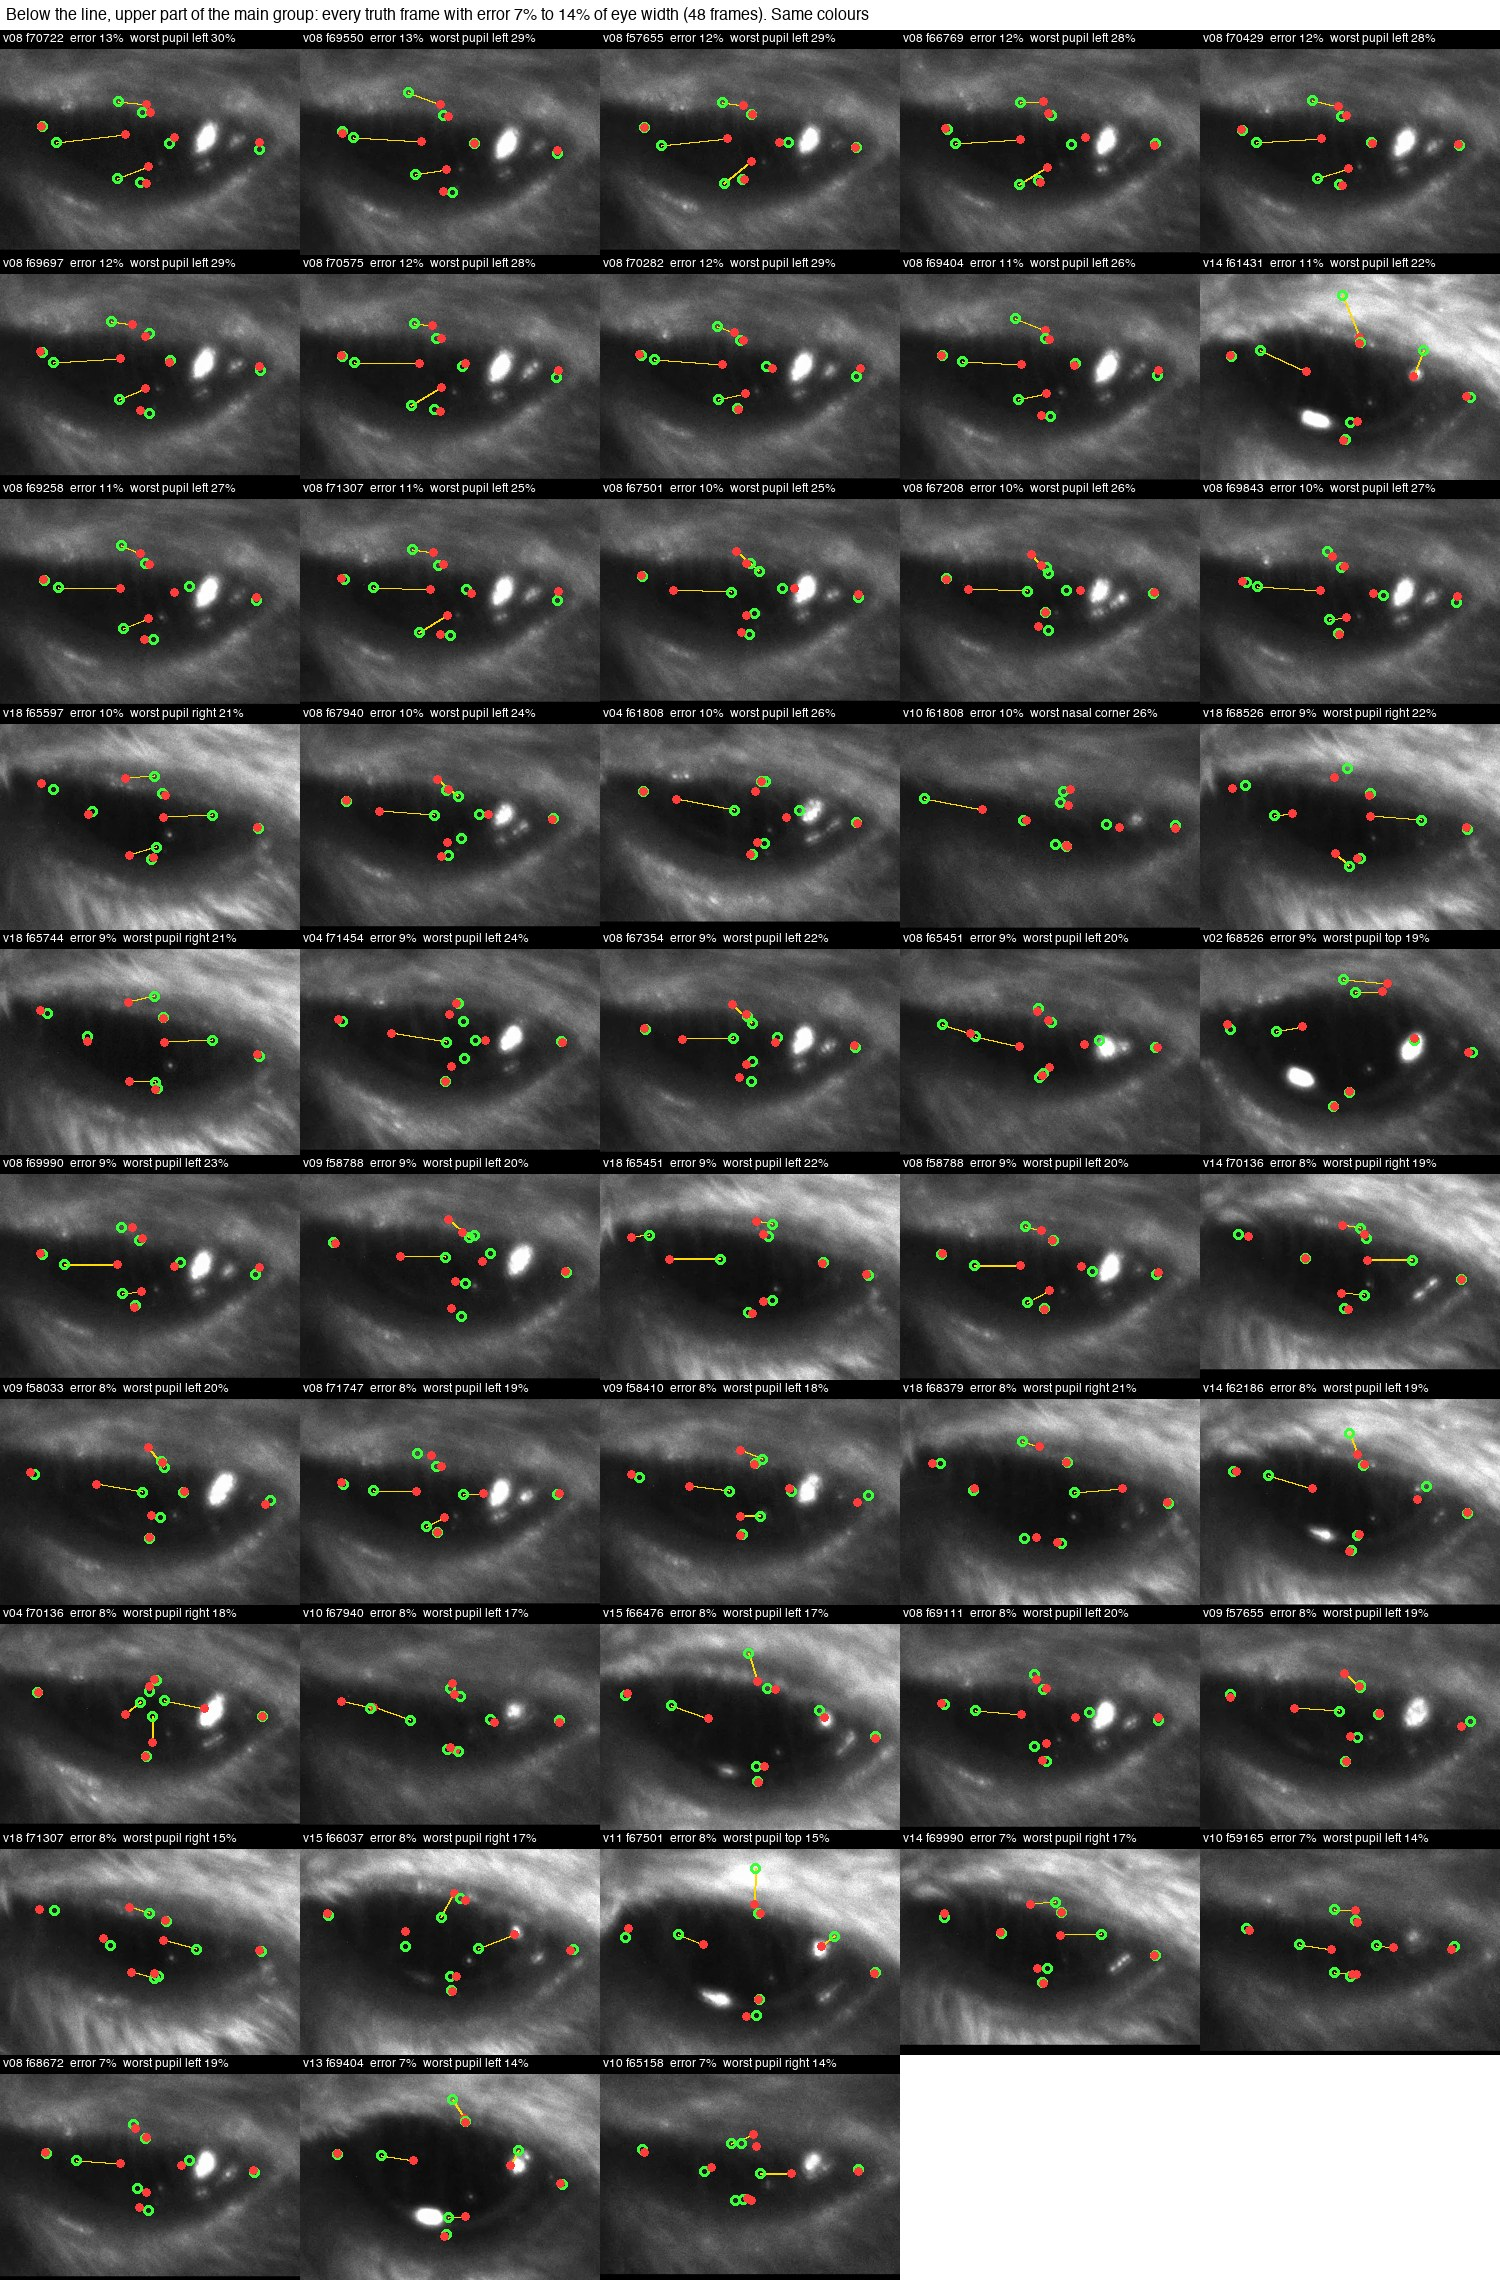
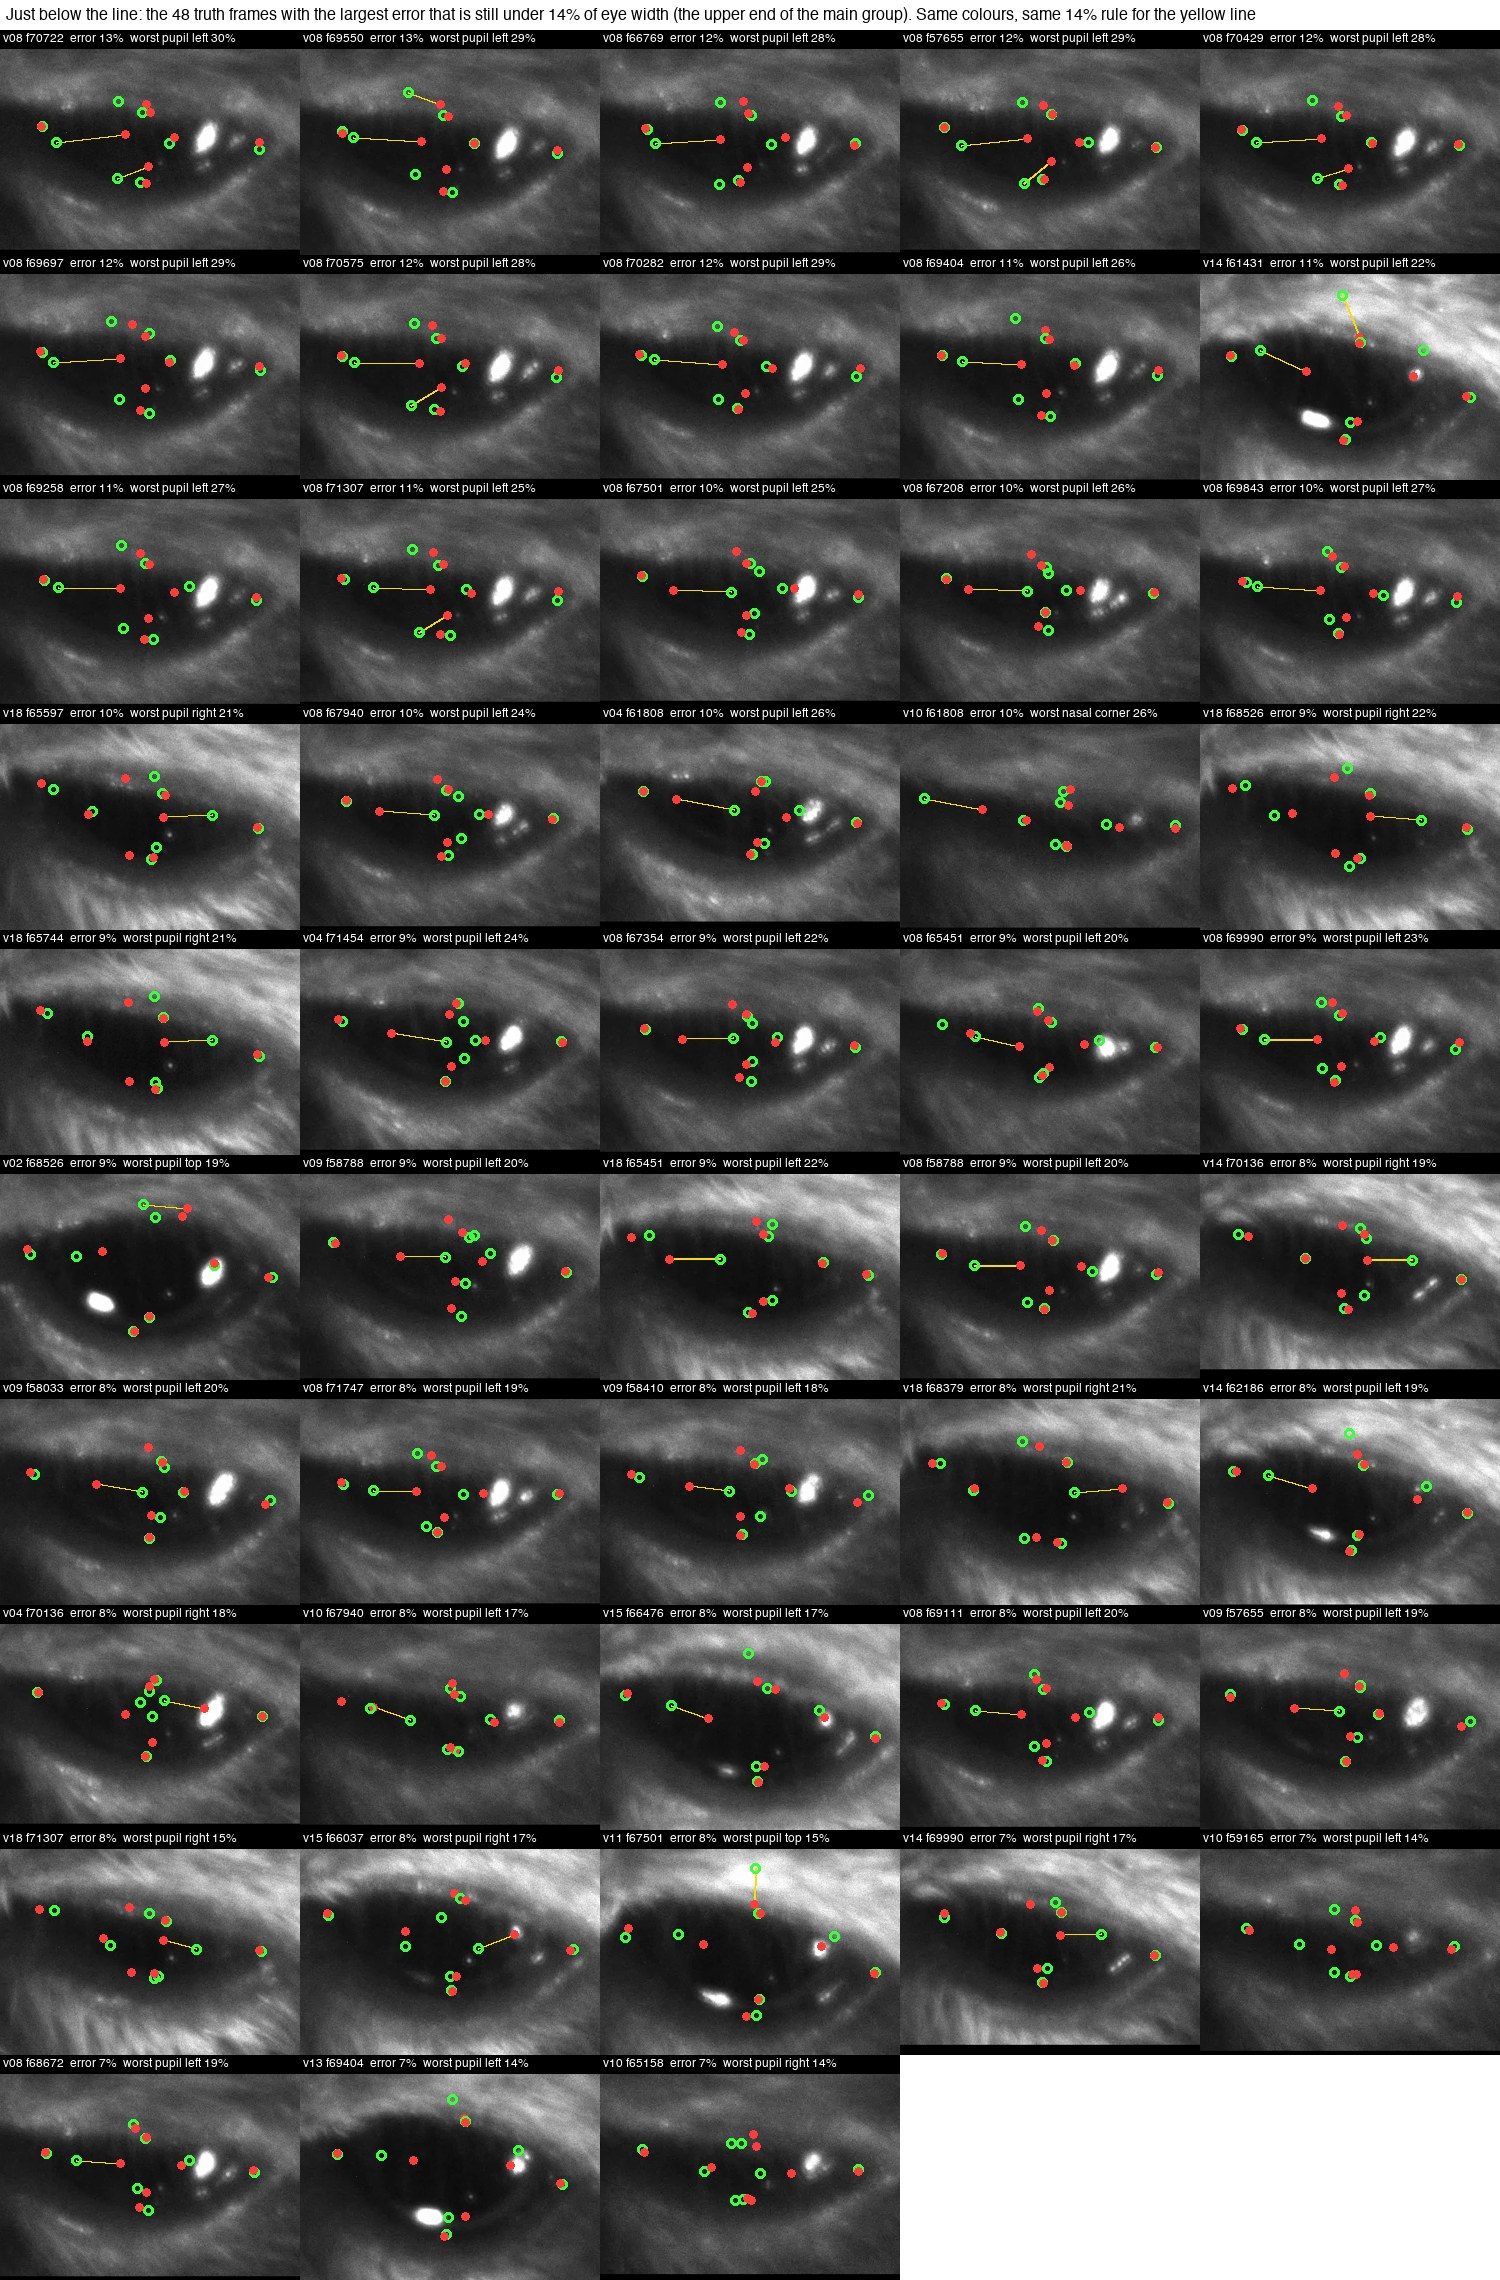
Error-line sheets: one rule, the yellow line marks points whose own error exceeds the same 14% line; lower sheet = the 48 frames just below the line

diff --git a/report/index.html b/report/index.html
@@ -78,7 +78,7 @@ math[display="block"]{margin:10px 0 6px;text-align:left;overflow-x:auto;max-widt
 
 <header>
   <h1><span lang="zh">小鼠眼睛关键点追踪：做了什么，结果是什么</span><span lang="en">Mouse eye keypoint tracking: what was done and what came out</span></h1>
-  <p class="muted small">Zhiheng Li (University of Minnesota), Kaiwen Sheng (Stanford) · <span lang="zh">页面生成时间</span><span lang="en">page built</span> 2026-10-30 23:34 · <a href="https://github.com/ZhihengLi0/mouse-behavior-tracking">GitHub: ZhihengLi0/mouse-behavior-tracking</a></p>
+  <p class="muted small">Zhiheng Li (University of Minnesota), Kaiwen Sheng (Stanford) · <span lang="zh">页面生成时间</span><span lang="en">page built</span> 2026-10-30 23:36 · <a href="https://github.com/ZhihengLi0/mouse-behavior-tracking">GitHub: ZhihengLi0/mouse-behavior-tracking</a></p>
 
   <div class="text" lang="zh">
     <p><b>任务：</b>用 DeepLabCut 在小鼠眼睛视频的每一帧上找 8 个点：瞳孔上、下、左、右，上眼睑、下眼睑，鼻侧眼角、颞侧眼角。由这 8 个点得到瞳孔大小、眼睛睁开程度和眨眼，之后与脑记录对齐。</p>
@@ -1071,13 +1071,13 @@ math[display="block"]{margin:10px 0 6px;text-align:left;overflow-x:auto;max-widt
   </div>
   <figure>
     <div class="figbox wide"><img src="assets/fig_error_sheet_above.jpg" alt="Every truth frame above the line, with the human labels and the model's points"></div>
-    <figcaption lang="zh"><span class="tag">图 9-2a：</span>线以上的全部 23 帧，误差从大到小。绿圈 = 人工标注，红点 = 模型，黄线连起误差超过眼宽 7% 的点。每一帧都有点离开了眼睛。</figcaption>
-    <figcaption lang="en"><span class="tag">Figure 9-2a:</span>All 23 frames above the line, largest error first. Green ring = human label, red = model, yellow line joins the two where a point's error exceeds 7% of the eye width. In every frame a point has left the eye.</figcaption>
+    <figcaption lang="zh"><span class="tag">图 9-2a：</span>线以上的全部 23 帧，帧误差从大到小。绿圈 = 人工标注，红点 = 模型；黄线连起自己的误差也超过眼宽 14% 的点，和帧的线是同一个数。每一帧都有点离开了眼睛。</figcaption>
+    <figcaption lang="en"><span class="tag">Figure 9-2a:</span>All 23 frames above the line, largest frame error first. Green ring = human label, red = model; a yellow line joins the two where the point's own error also exceeds 14% of the eye width, the same number as the line. In every frame a point has left the eye.</figcaption>
   </figure>
   <figure>
     <div class="figbox wide"><img src="assets/fig_error_sheet_below.jpg" alt="Every truth frame with error between 7 and 14 percent of eye width"></div>
-    <figcaption lang="zh"><span class="tag">图 9-2b：</span>线以下、主体上端的全部 48 帧，误差在眼宽的 7% 到 14% 之间，同样的颜色。点都在瞳孔边缘附近；视频 8 模糊的瞳孔占了大半。</figcaption>
-    <figcaption lang="en"><span class="tag">Figure 9-2b:</span>All 48 frames below the line in the upper part of the main group, error between 7% and 14% of the eye width, same colours. The points are all near the pupil edge; the blurry pupil of video 8 makes up most of them.</figcaption>
+    <figcaption lang="zh"><span class="tag">图 9-2b：</span>线以下、紧挨着线的 48 帧，也就是主体的上端，同样的颜色和同样的 14% 规则。单个点可以超过 14%，但 8 个点合起来的帧误差没有超过线；点都在瞳孔边缘附近，视频 8 模糊的瞳孔占了大半。</figcaption>
+    <figcaption lang="en"><span class="tag">Figure 9-2b:</span>The 48 frames just below the line, the upper end of the main group, same colours and the same 14% rule. A single point can exceed 14% while the frame error over the 8 points stays under the line; the points are all near the pupil edge, and the blurry pupil of video 8 makes up most of them.</figcaption>
   </figure>
   <div class="concl" lang="zh"><span class="tag">错帧的结论：</span>一条线，眼宽的 14%。
     <ol>

diff --git a/report/template.html b/report/template.html
@@ -963,13 +963,13 @@ math[display="block"]{margin:10px 0 6px;text-align:left;overflow-x:auto;max-widt
   </div>
   <figure>
     <div class="figbox wide"><img src="assets/fig_error_sheet_above.jpg" alt="Every truth frame above the line, with the human labels and the model's points"></div>
-    <figcaption lang="zh"><span class="tag">图 9-2a：</span>线以上的全部 23 帧，误差从大到小。绿圈 = 人工标注，红点 = 模型，黄线连起误差超过眼宽 7% 的点。每一帧都有点离开了眼睛。</figcaption>
-    <figcaption lang="en"><span class="tag">Figure 9-2a:</span>All 23 frames above the line, largest error first. Green ring = human label, red = model, yellow line joins the two where a point's error exceeds 7% of the eye width. In every frame a point has left the eye.</figcaption>
+    <figcaption lang="zh"><span class="tag">图 9-2a：</span>线以上的全部 23 帧，帧误差从大到小。绿圈 = 人工标注，红点 = 模型；黄线连起自己的误差也超过眼宽 14% 的点，和帧的线是同一个数。每一帧都有点离开了眼睛。</figcaption>
+    <figcaption lang="en"><span class="tag">Figure 9-2a:</span>All 23 frames above the line, largest frame error first. Green ring = human label, red = model; a yellow line joins the two where the point's own error also exceeds 14% of the eye width, the same number as the line. In every frame a point has left the eye.</figcaption>
   </figure>
   <figure>
     <div class="figbox wide"><img src="assets/fig_error_sheet_below.jpg" alt="Every truth frame with error between 7 and 14 percent of eye width"></div>
-    <figcaption lang="zh"><span class="tag">图 9-2b：</span>线以下、主体上端的全部 48 帧，误差在眼宽的 7% 到 14% 之间，同样的颜色。点都在瞳孔边缘附近；视频 8 模糊的瞳孔占了大半。</figcaption>
-    <figcaption lang="en"><span class="tag">Figure 9-2b:</span>All 48 frames below the line in the upper part of the main group, error between 7% and 14% of the eye width, same colours. The points are all near the pupil edge; the blurry pupil of video 8 makes up most of them.</figcaption>
+    <figcaption lang="zh"><span class="tag">图 9-2b：</span>线以下、紧挨着线的 48 帧，也就是主体的上端，同样的颜色和同样的 14% 规则。单个点可以超过 14%，但 8 个点合起来的帧误差没有超过线；点都在瞳孔边缘附近，视频 8 模糊的瞳孔占了大半。</figcaption>
+    <figcaption lang="en"><span class="tag">Figure 9-2b:</span>The 48 frames just below the line, the upper end of the main group, same colours and the same 14% rule. A single point can exceed 14% while the frame error over the 8 points stays under the line; the points are all near the pupil edge, and the blurry pupil of video 8 makes up most of them.</figcaption>
   </figure>
   <div class="concl" lang="zh"><span class="tag">错帧的结论：</span>一条线，眼宽的 14%。
     <ol>

diff --git a/report/index_en.html b/report/index_en.html
@@ -75,7 +75,7 @@ math[display="block"]{margin:10px 0 6px;text-align:left;overflow-x:auto;max-widt
 
 <header>
   <h1><span lang="en">Mouse eye keypoint tracking: what was done and what came out</span></h1>
-  <p class="muted small">Zhiheng Li (University of Minnesota), Kaiwen Sheng (Stanford) · <span lang="en">page built</span> 2026-10-30 23:34 · <a href="https://github.com/ZhihengLi0/mouse-behavior-tracking">GitHub: ZhihengLi0/mouse-behavior-tracking</a></p>
+  <p class="muted small">Zhiheng Li (University of Minnesota), Kaiwen Sheng (Stanford) · <span lang="en">page built</span> 2026-10-30 23:36 · <a href="https://github.com/ZhihengLi0/mouse-behavior-tracking">GitHub: ZhihengLi0/mouse-behavior-tracking</a></p>
 
   
   <div class="text" lang="en">
@@ -833,12 +833,12 @@ math[display="block"]{margin:10px 0 6px;text-align:left;overflow-x:auto;max-widt
   <figure>
     <div class="figbox wide"><img src="assets/fig_error_sheet_above.jpg" alt="Every truth frame above the line, with the human labels and the model's points"></div>
     
-    <figcaption lang="en"><span class="tag">Figure 9-2a:</span>All 23 frames above the line, largest error first. Green ring = human label, red = model, yellow line joins the two where a point's error exceeds 7% of the eye width. In every frame a point has left the eye.</figcaption>
+    <figcaption lang="en"><span class="tag">Figure 9-2a:</span>All 23 frames above the line, largest frame error first. Green ring = human label, red = model; a yellow line joins the two where the point's own error also exceeds 14% of the eye width, the same number as the line. In every frame a point has left the eye.</figcaption>
   </figure>
   <figure>
     <div class="figbox wide"><img src="assets/fig_error_sheet_below.jpg" alt="Every truth frame with error between 7 and 14 percent of eye width"></div>
     
-    <figcaption lang="en"><span class="tag">Figure 9-2b:</span>All 48 frames below the line in the upper part of the main group, error between 7% and 14% of the eye width, same colours. The points are all near the pupil edge; the blurry pupil of video 8 makes up most of them.</figcaption>
+    <figcaption lang="en"><span class="tag">Figure 9-2b:</span>The 48 frames just below the line, the upper end of the main group, same colours and the same 14% rule. A single point can exceed 14% while the frame error over the 8 points stays under the line; the points are all near the pupil edge, and the blurry pupil of video 8 makes up most of them.</figcaption>
   </figure>
   
   <div class="concl" lang="en"><span class="tag">Conclusion on wrong frames:</span>one line, 14% of the eye width.

diff --git a/v2_new_pupil_top_video_scaling/scripts/error_line_sheets.py b/v2_new_pupil_top_video_scaling/scripts/error_line_sheets.py
@@ -1,7 +1,7 @@
 #!/usr/bin/env python3
 """Contact sheets as evidence for the error line (report 8.1), in units of eye width: every truth frame above the line
-(the 23 wrong frames) and every truth frame in the upper part of the main group (7 % to the line). Green ring = human
-label, red dot = model, yellow line joins the two where a point's error exceeds half the line. Output
+(the 23 wrong frames) and the 48 truth frames just below the line (the upper end of the main group). Green ring = human
+label, red dot = model, yellow line joins the two where the point's own error exceeds the line (the same 14 % of eye width). Output
 results/error_tier/sheet_above_line.jpg, sheet_below_line.jpg (English captions). Nothing existing is modified."""
 import cv2
 import numpy as np
@@ -51,7 +51,7 @@ def frame_tile(v, f, err):
         e = np.hypot(*(hum[b] - xy[b][f])) / Wm
         if np.isfinite(e) and e > werr:
             worst, werr = b, e
-        if np.isfinite(e) and e > line / 2:
+        if np.isfinite(e) and e > line:
             cd.line([hx, hy, px, py], fill=(255, 220, 0), width=2)
         if np.isfinite(hx) and np.isfinite(hy):
             cd.ellipse([hx - 5, hy - 5, hx + 5, hy + 5], outline=(60, 255, 60), width=3)
@@ -73,7 +73,8 @@ def sheet(D, title, name):
     print("saved", name, len(D), "frames")
 
 
-sheet(E[E.error_rel > line], f"Above the line: every truth frame with error > {100 * line:.0f}% of eye width ({int((E.error_rel > line).sum())} frames). green ring = human label, red = model, yellow line = point error > {50 * line:.0f}% of eye width", "sheet_above_line.jpg")
-sheet(E[(E.error_rel <= line) & (E.error_rel >= 0.07)], f"Below the line, upper part of the main group: every truth frame with error 7% to {100 * line:.0f}% of eye width ({int(((E.error_rel <= line) & (E.error_rel >= 0.07)).sum())} frames). Same colours", "sheet_below_line.jpg")
+sheet(E[E.error_rel > line], f"Above the line: every truth frame with error > {100 * line:.0f}% of eye width ({int((E.error_rel > line).sum())} frames). green ring = human label, red = model, yellow line = the point's own error > {100 * line:.0f}% of eye width (the same number as the line)", "sheet_above_line.jpg")
+N_BELOW = 48
+sheet(E[E.error_rel <= line].nlargest(N_BELOW, "error_rel"), f"Just below the line: the {N_BELOW} truth frames with the largest error that is still under {100 * line:.0f}% of eye width (the upper end of the main group). Same colours, same {100 * line:.0f}% rule for the yellow line", "sheet_below_line.jpg")
 for v in cache:
     cache[v][2].release()
